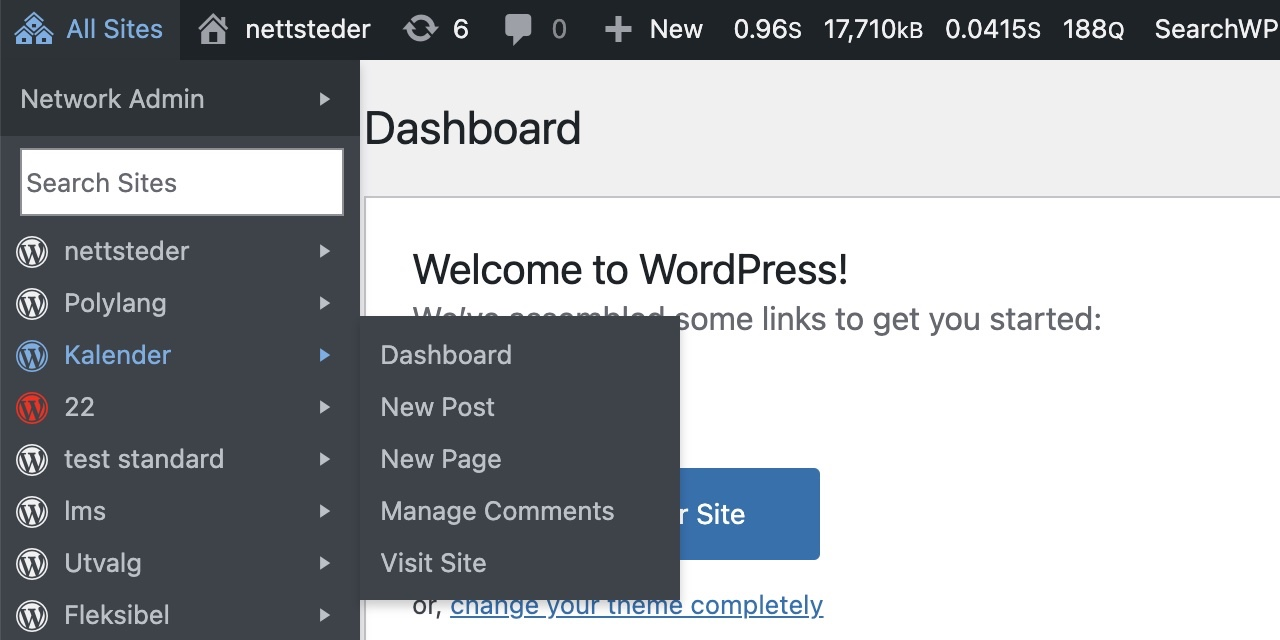
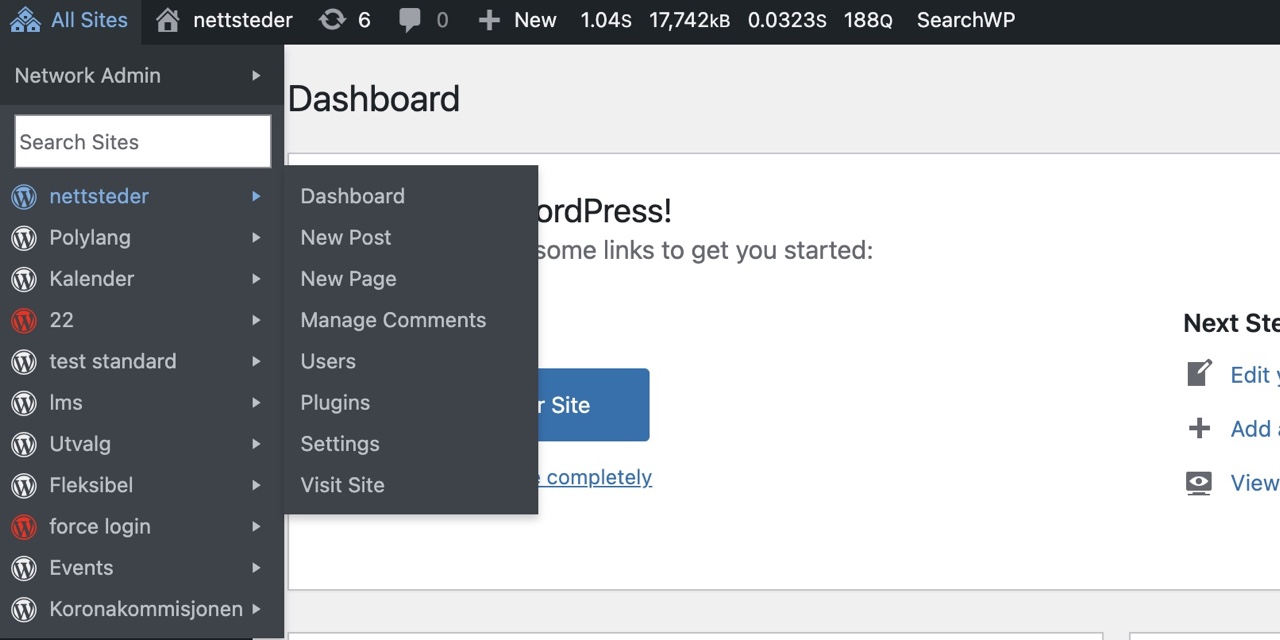
Add more menu choices per subsite.

diff --git a/super-admin-all-sites-menu.php b/super-admin-all-sites-menu.php
@@ -12,7 +12,7 @@
  * Plugin URI: https://github.com/soderlind/super-admin-all-sites-menu
  * GitHub Plugin URI: https://github.com/soderlind/super-admin-sites-menu
  * Description: For the super admin, replace WP Admin Bar My Sites menu with an All Sites menu.
- * Version:     1.0.3
+ * Version:     1.0.4
  * Author:      Per Soderlind
  * Network:     true
  * Author URI:  https://soderlind.no
@@ -212,6 +212,30 @@ function super_admin_all_sites_menu( \WP_Admin_Bar $wp_admin_bar ) : void {
 				'id'     => $menu_id . '-c',
 				'title'  => __( 'Manage Comments' ),
 				'href'   => $admin_url . '/edit-comments.php',
+			]
+		);
+		$wp_admin_bar->add_menu(
+			[
+				'parent' => $menu_id,
+				'id'     => $menu_id . '-u',
+				'title'  => __( 'Users' ),
+				'href'   => $admin_url . '/users.php',
+			]
+		);
+		$wp_admin_bar->add_menu(
+			[
+				'parent' => $menu_id,
+				'id'     => $menu_id . '-p',
+				'title'  => __( 'Plugins' ),
+				'href'   => $admin_url . '/plugins.php',
+			]
+		);
+		$wp_admin_bar->add_menu(
+			[
+				'parent' => $menu_id,
+				'id'     => $menu_id . '-s',
+				'title'  => __( 'Settings' ),
+				'href'   => $admin_url . '/options-general.php',
 			]
 		);
 		$wp_admin_bar->add_menu(

diff --git a/README.md b/README.md
@@ -8,7 +8,11 @@ For the super admin, replace WP Admin Bar My Sites menu with an All Sites menu.
 - List all subsites, retrieved using `get_sites()`. WP Admin Bar My Sites only list sites you're a local admin on.
 - Mark sites that has [restricted site access](https://github.com/10up/restricted-site-access) with a red icon.
 - It's compatible with [My Sites Search](https://github.com/trepmal/my-sites-search).
-- Add 'New Page' submenu choice per site.
+- Add more menu choices per subsite.
+   - 'New Page'
+   - 'Users'
+   - 'Plugins'
+   - 'Settings'
 
 ## Screenshot
 <img src="assets/screenshot.jpg">
